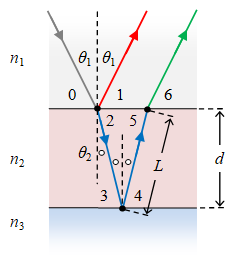
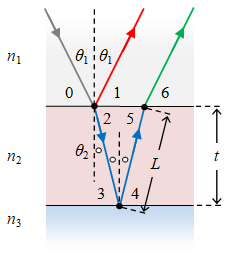
fin /wo code and options

diff --git a/_posts/0/30/2021-04-24-elementary-physics-tutorial-7-2.md b/_posts/0/30/2021-04-24-elementary-physics-tutorial-7-2.md
@@ -90,10 +90,34 @@ Persamaan \eqref{eqn:0302-5} akan selalu bernilai nol atau interferensi minimum 
 
 \begin{equation}\label{eqn:0302-6}
 \begin{array}{rcl}
-\frac12 \Delta \phi_{61} & = & (n + \frac12) \pi \newline
-\displaystyle \frac{4\pi}{\lambda} n_2 L & = & (n + \frac12) \pi \newline
+\frac12 \Delta \phi_{61} & = & (m + \frac12) \pi \newline
+\displaystyle \tfrac12 \frac{4\pi}{\lambda} n_2 L & = & (m + \frac12) \pi \newline
+2 L_m & = & (m + \frac12) \displaystyle \frac{\lambda}{n_2}.
 \end{array}
 \end{equation}
+
+Tebal minimum tercapai saat $m = 0$ sehingga diperoleh
+
+\begin{equation}\label{eqn:0302-7}
+L_0 = \frac14 \frac{\lambda}{n_2} = \frac14 \lambda_2.
+\end{equation}
+
+Ketebalan lapisan tipis (film) sebenarnya adalah
+
+\begin{equation}\label{eqn:0302-8}
+t = L \cos \theta_2 = L \cos \sin^{-1} \left( \frac{n_1}{n_2} \sin \theta_1 \right).
+\end{equation}
+
+Bila digunakan asumsi bahwa $\theta \approx 0$ yang menggambarkan pengamatan hampir tegak lurus lapisan tipis, maka akan diperoleh
+
+\begin{equation}\label{eqn:0302-9}
+t = (2m + \tfrac14) \frac{\lambda}{n_2}, \ \ \ \ m = 0, 1, 2, \dots,
+\end{equation}
+
+untuk interferensi minimum pada lapisan tipis.
+Bila indeks bias kaca kamera adalah $1.55$ dan indeks bias lapisan tipis di atas kaca adalah $1.45$, agar pantulan cahaya monokromatik $580 \ \rm nm$ dapat dicegah ketebalan minium yang bukan nol dapat dihitung menggunakan kode Python berikut.
+
+
 
 
 {% comment %}
